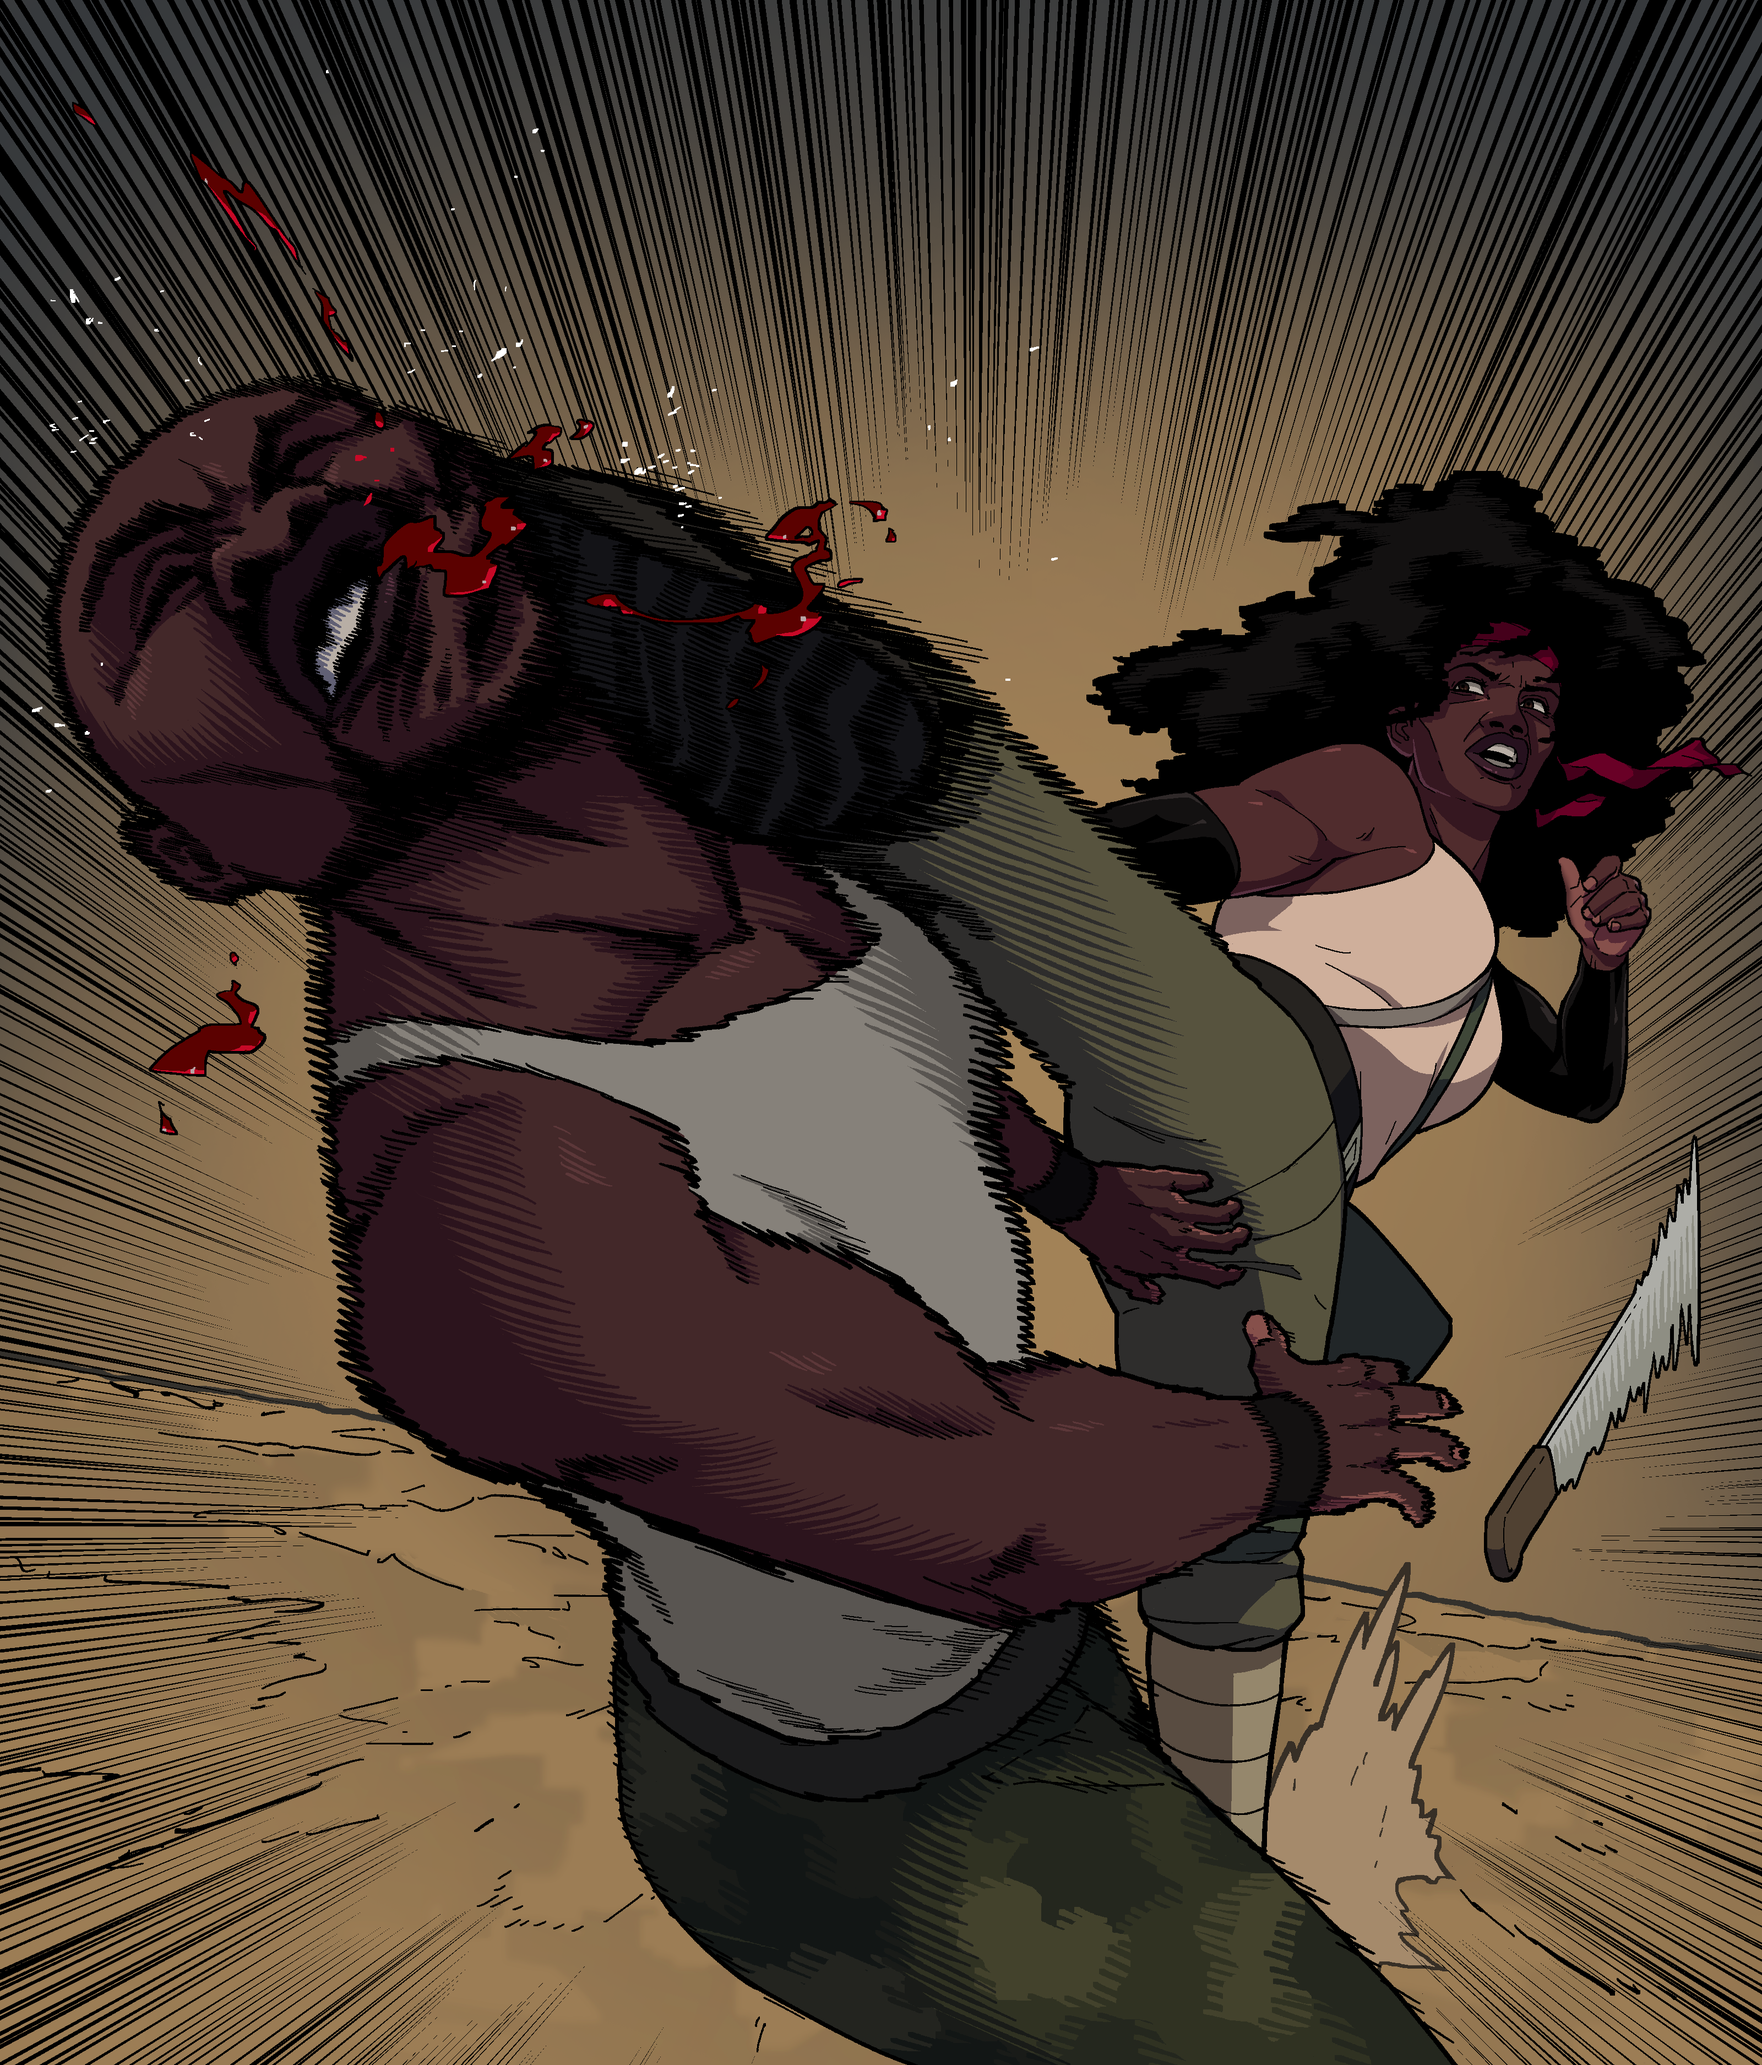
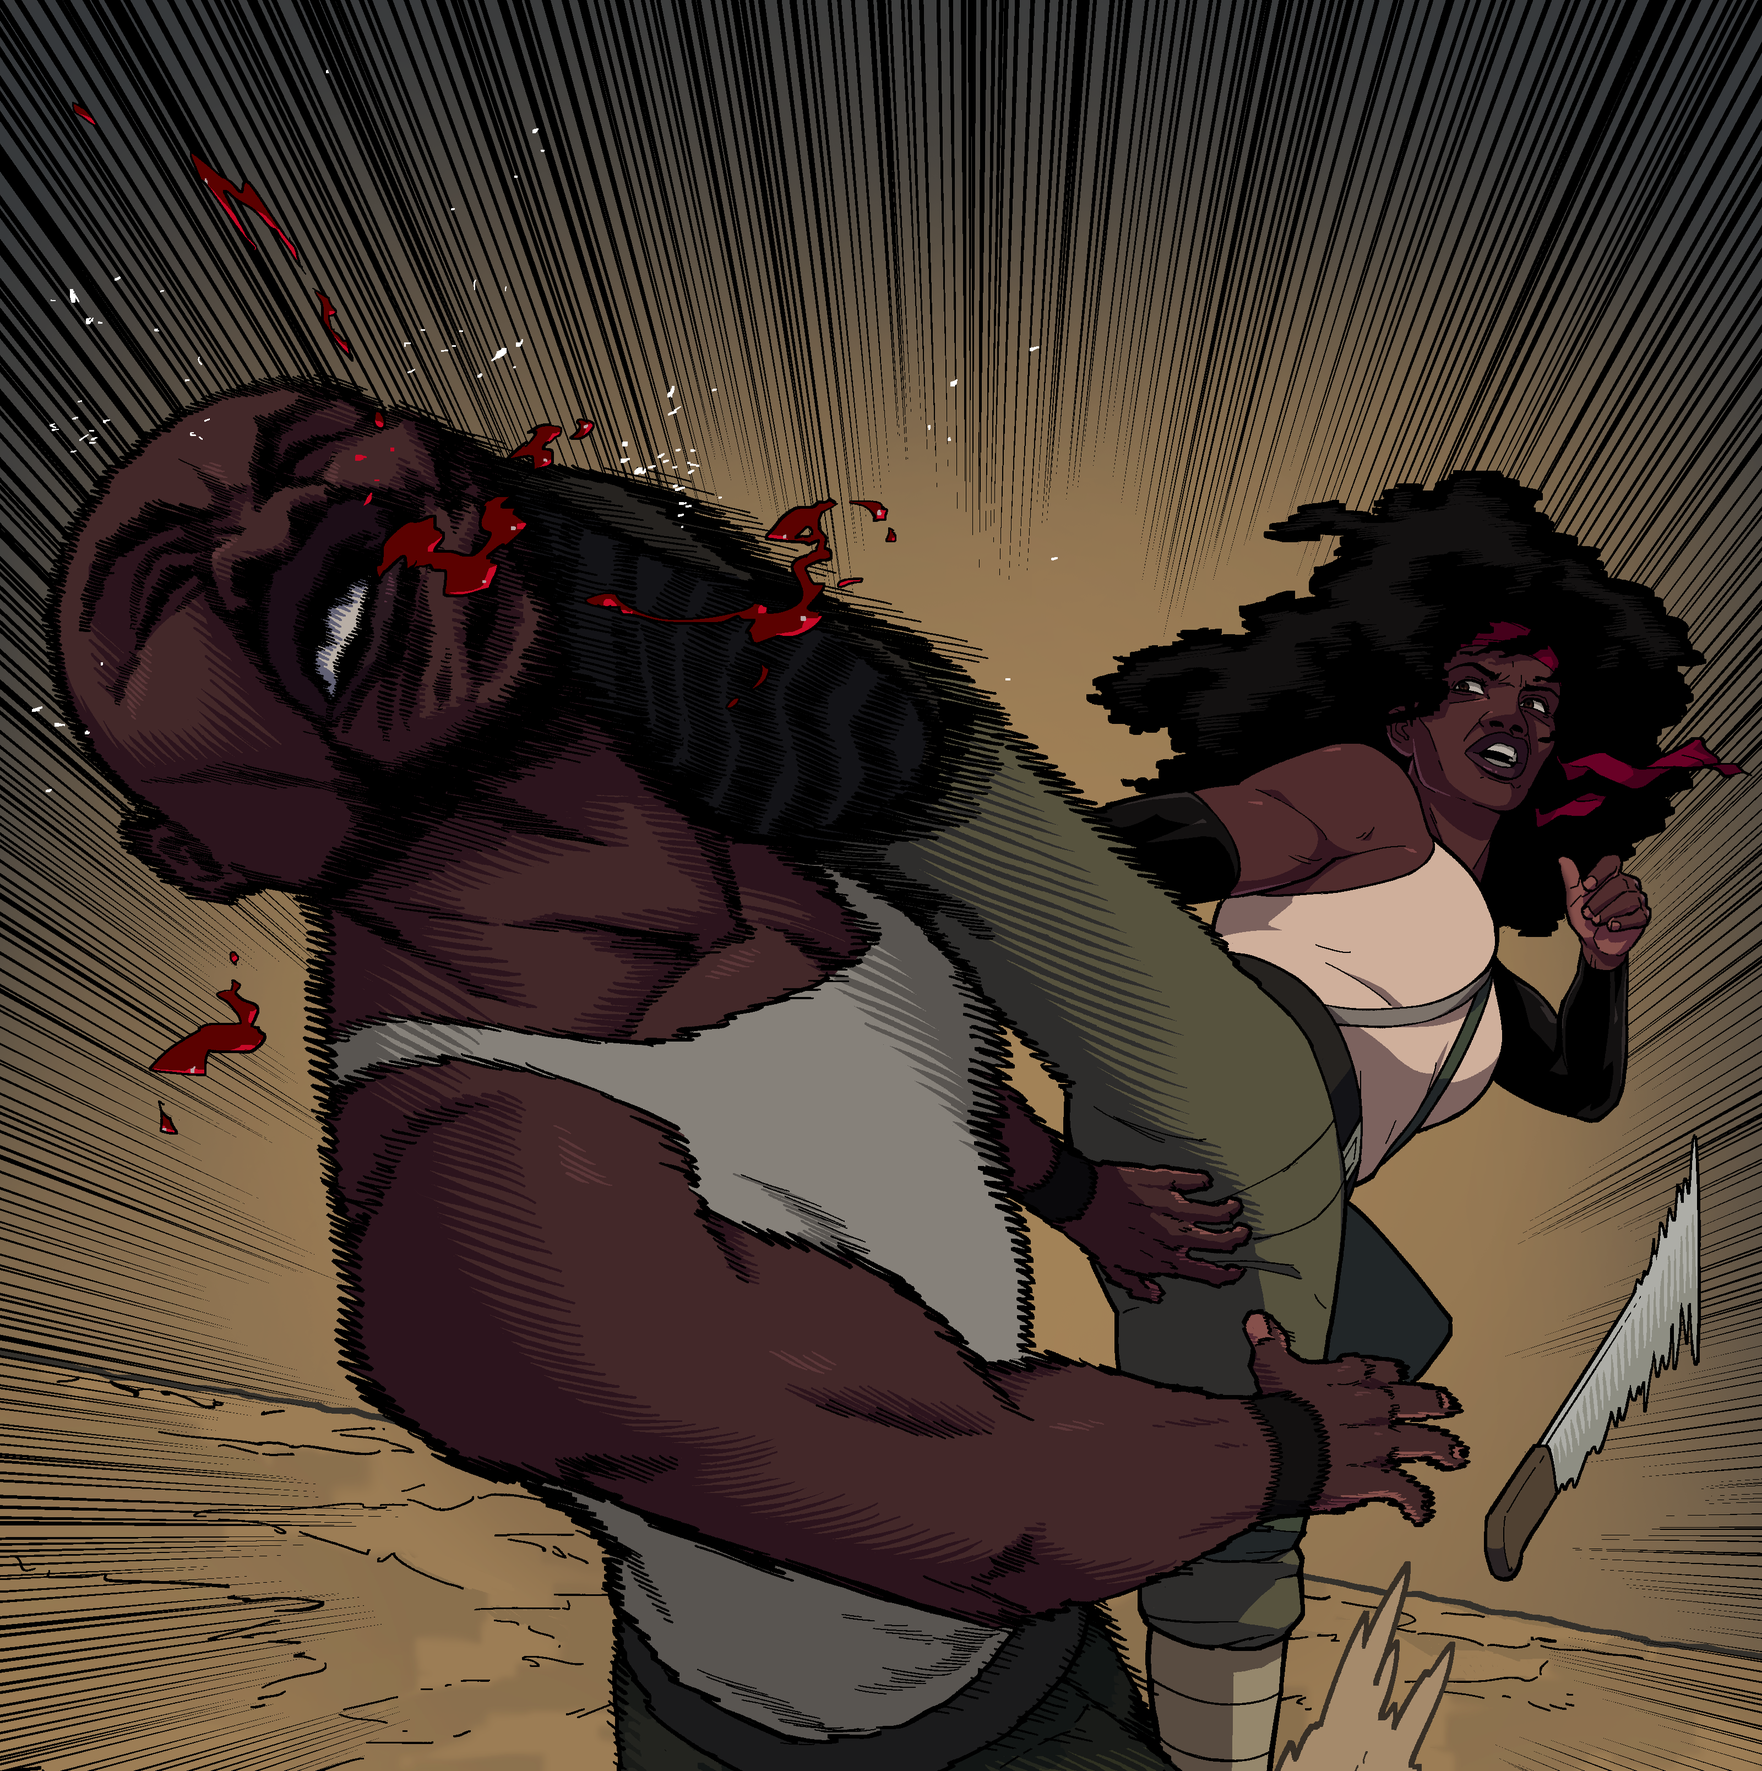
plot

diff --git a/hong/extras.html b/hong/extras.html
@@ -166,14 +166,26 @@
             </div>
             -->
             <div id="gallery">
-
-            <img data-year="2020" alt="Atari" class="sfw hidden" src="../img/Fanarts/Atari.JPEG" />
-            <img data-year="2020" alt="JG" class="sfw hidden" src="../img/Fanarts/JG1.png" />
-            <img data-year="2022" alt="JG" class="sfw hidden" src="../img/Fanarts/JG2.jpg" />
-            <img data-year="2019" alt="Laura Estrella" class="sfw hidden" src="../img/Fanarts/Laura.png" />
-            <img data-year="2020" alt="Noa" class="sfw hidden" src="../img/Fanarts/Noa1.png" />
-            <img data-year="2021" alt="Noa" class="sfw hidden" src="../img/Fanarts/Noa2.png" />
-            <img data-year="2023" alt="reiYamizawa" class="sfw hidden" src="../img/Fanarts/reiYamizawa.jpg" />
+            <!--
+                <img data-year="2020" alt="Atari" class="sfw hidden" src="../img/Fanarts/Atari.JPEG" />
+                <img data-year="2020" alt="JG" class="sfw hidden" src="../img/Fanarts/JG1.png" />
+                <img data-year="2022" alt="JG" class="sfw hidden" src="../img/Fanarts/JG2.jpg" />
+                <img data-year="2019" alt="Laura Estrella" class="sfw hidden" src="../img/Fanarts/Laura.png" />
+                <img data-year="2020" alt="Noa" class="sfw hidden" src="../img/Fanarts/Noa1.png" />
+                <img data-year="2021" alt="Noa" class="sfw hidden" src="../img/Fanarts/Noa2.png" />
+                <img data-year="2023" alt="reiYamizawa" class="sfw hidden" src="../img/Fanarts/reiYamizawa.jpg" />
+            -->
+                <img data-year="2019" alt="reiYamizawa" class="sfw hidden" src="../img/Hong/Extras/pjv1todos.png" />
+                <img data-year="2019" alt="Noa" class="sfw hidden" src="../img/Hong/Extras/portadaold.png" />
+                <img data-year="2019" alt="Noa" class="sfw hidden" src="../img/Hong/Extras/paginaold1.png" />
+                <img data-year="2019" alt="Noa" class="sfw hidden" src="../img/Hong/Extras/paginaold2.png" />
+                <img data-year="2019" alt="Noa" class="sfw hidden" src="../img/Hong/Extras/paginaold3.png" />
+                <img data-year="2018" alt="Atari" class="sfw hidden" src="../img/Hong/Extras/ashold.png" />
+                <img data-year="2018" alt="JG" class="sfw hidden" src="../img/Hong/Extras/hongold.png" />
+                <img data-year="2018" alt="Laura Estrella" class="sfw hidden" src="../img/Hong/Extras/Hongpagev1byn.png" />
+                <img data-year="2048" alt="JG" class="sfw hidden" src="../img/Hong/Extras/Hongpagev1.png" />
+                
+                
             </div>
             
         </div>

diff --git a/index.html b/index.html
@@ -89,7 +89,7 @@
                 </a>
                 
                 <div class="row">
-                    <div class="content-box split-box">
+                    <div class="content-box split-box" style="background-image: url(./img/plot3.png); background-position: 50% 45%;">
                         <div class="content-title">
                             Plot
                         </div>

diff --git a/styles/gallery.css b/styles/gallery.css
@@ -179,6 +179,7 @@ html{
     opacity: 0;
 
     transition: 0.3s ease;
+    pointer-events: none;
 }
 
 #overlay-image-text-mobile{
